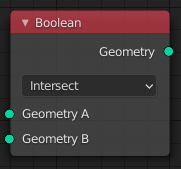
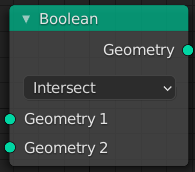
Geometry Nodes: Rename boolean input sockets
Rename "Geometry A" to "Geometry 1" in order to be more consistent
with other nodes.

See rB80578a9d54f

git-svn-id: https://svn.blender.org/svnroot/bf-manual/trunk@7590 c4de1f47-6596-e411-a384-0024e86c2797

diff --git a/blender_docs/manual/modeling/modifiers/nodes/mesh/boolean.rst b/blender_docs/manual/modeling/modifiers/nodes/mesh/boolean.rst
@@ -16,7 +16,7 @@ This node offers the same operations as the :doc:`Boolean modifier </modeling/mo
 Inputs
 ======
 
-Geometry A, B
+Geometry 1, 2
    Standard geometry input.
 
 
@@ -25,13 +25,13 @@ Properties
 
 Mode
    Intersect
-      Produce a new geometry containing only the volume inside of both geometry A and geometry B.
+      Produce a new geometry containing only the volume inside of both geometry 1 and geometry 2.
 
    Union
       The two input pieces of geometry are joined, then any interior elements are removed.
 
    Difference
-      Geometry B is subtracted from geometry A (everything outside of geometry B is kept).
+      Geometry 2 is subtracted from geometry 1 (everything outside of geometry 2 is kept).
 
 
 Output
